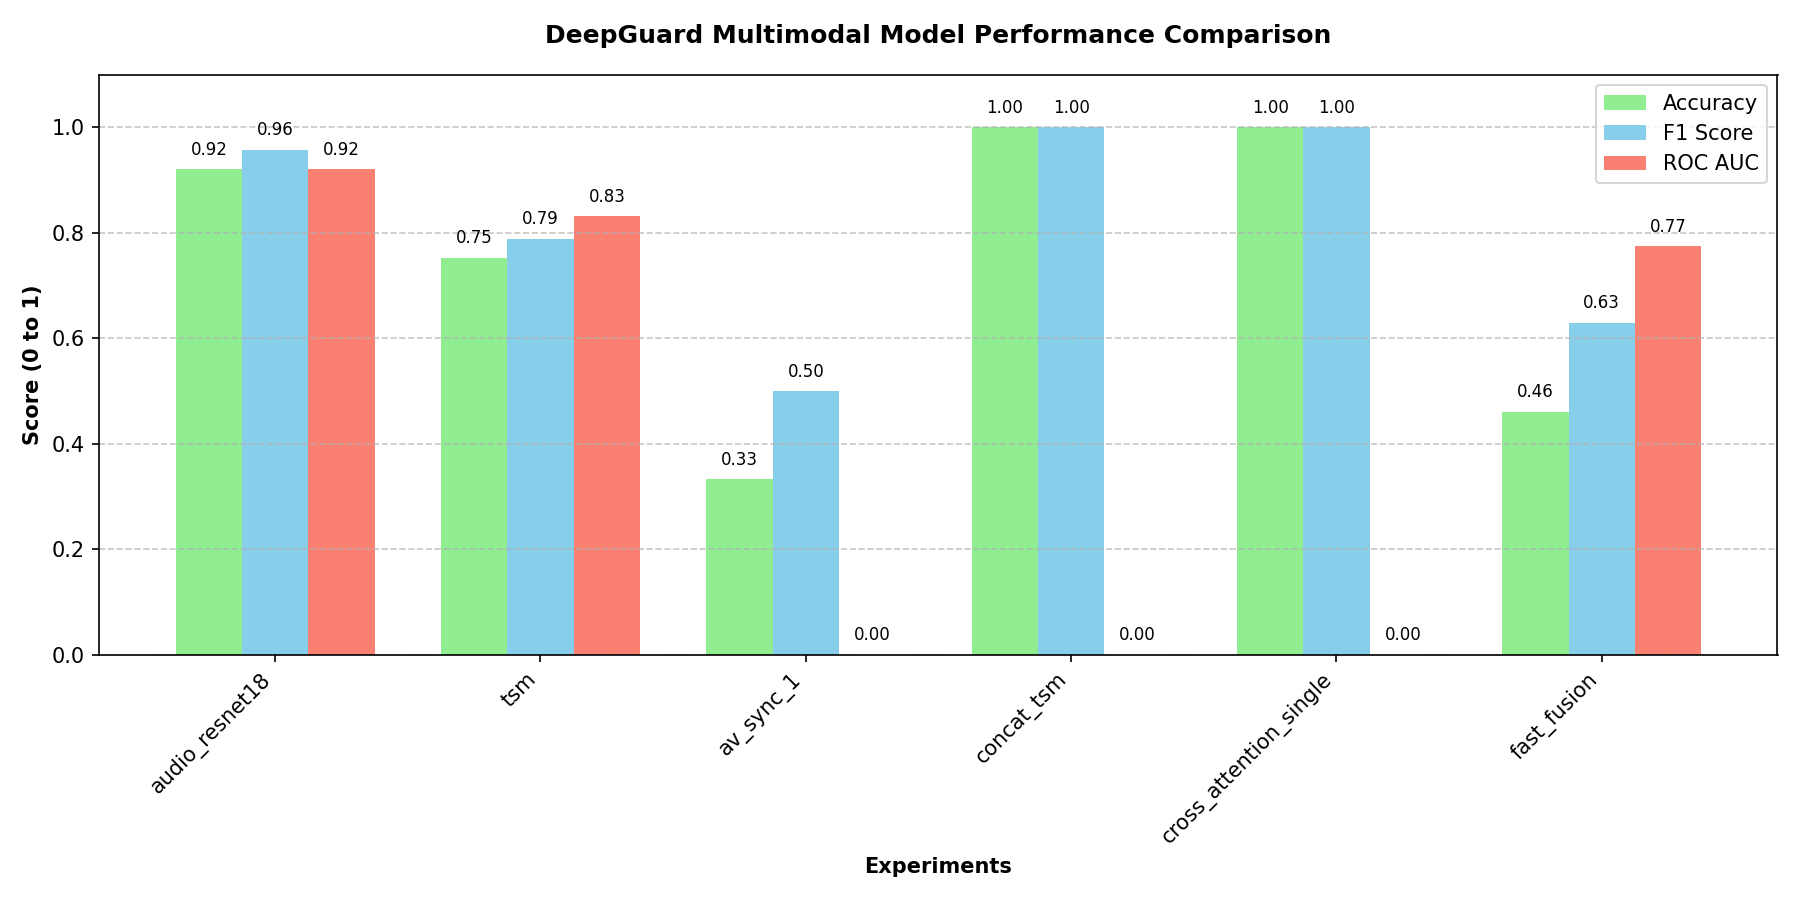
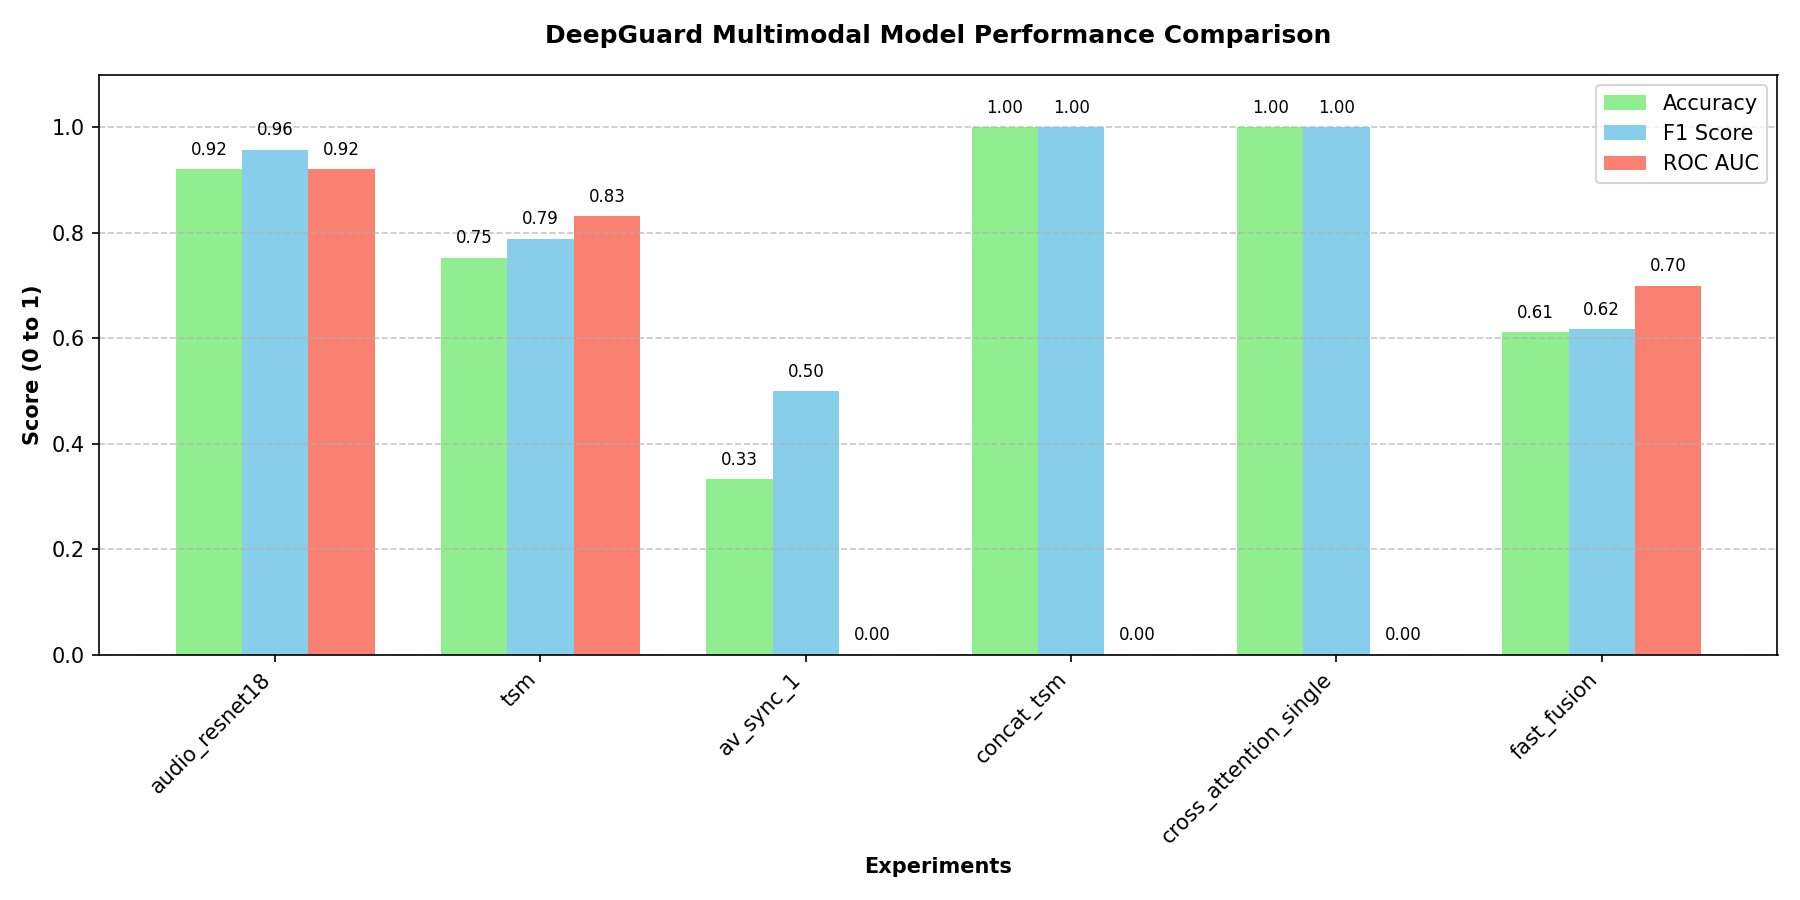
minor fixes

Changed region(s): [[0.8089, 0.2489, 0.9644, 0.4667]]

diff --git a/scripts/prepare_all_fakeavceleb.py b/scripts/prepare_all_fakeavceleb.py
@@ -1,0 +1,136 @@
+import argparse
+import csv
+import hashlib
+import random
+import subprocess
+from pathlib import Path
+
+import cv2
+
+from src.preprocessing.video_sampler import VideoSampler
+from src.preprocessing.face_detector import OpenCVFaceDetector, FaceDetector
+from src.preprocessing.face_cropper import FaceCropper
+
+def parse_args():
+    parser = argparse.ArgumentParser()
+    parser.add_argument("--dataset-root", type=str, default="data/raw/FakeAVCeleb_v1.2/FakeAVCeleb_v1.2")
+    parser.add_argument("--output-dir", type=str, default="data/processed/fakeavceleb_all")
+    parser.add_argument("--target-fps", type=int, default=10)
+    parser.add_argument("--max-videos-per-class", type=int, default=None, help="Set to limit videos per class. Leave None for all.")
+    return parser.parse_args()
+
+def extract_audio(video_path, output_path):
+    subprocess.run([
+        'ffmpeg', '-i', str(video_path), '-vn', '-acodec', 'pcm_s16le', 
+        '-ar', '16000', '-ac', '1', str(output_path), '-y'
+    ], stdout=subprocess.DEVNULL, stderr=subprocess.DEVNULL)
+
+def split_name_for_video(video_id: str) -> str:
+    digest = hashlib.md5(video_id.encode("utf-8")).hexdigest()
+    value = int(digest[:8], 16) / float(0xFFFFFFFF)
+    if value < 0.7:
+        return "train"
+    elif value < 0.85:
+        return "val"
+    else:
+        return "test"
+
+def main():
+    args = parse_args()
+    root = Path(args.dataset_root)
+    output_dir = Path(args.output_dir)
+    
+    real_dir = root / "RealVideo-RealAudio"
+    fake_dirs = [root / "FakeVideo-FakeAudio", root / "FakeVideo-RealAudio"]
+    
+    real_vids = list(real_dir.rglob("*.mp4"))
+    fake_vids = []
+    for fd in fake_dirs:
+        fake_vids.extend(list(fd.rglob("*.mp4")))
+        
+    random.seed(42)
+    random.shuffle(real_vids)
+    random.shuffle(fake_vids)
+    
+    if args.max_videos_per_class:
+        real_vids = real_vids[:args.max_videos_per_class]
+        fake_vids = fake_vids[:args.max_videos_per_class]
+        
+    all_videos = [(v, 0) for v in real_vids] + [(v, 1) for v in fake_vids]
+    
+    print(f"Processing {len(real_vids)} reals and {len(fake_vids)} fakes...")
+    
+    detector = OpenCVFaceDetector(conf_threshold=0.6)
+    cropper = FaceCropper(target_size=(224, 224))
+    
+    output_dir.mkdir(parents=True, exist_ok=True)
+    audio_out_dir = output_dir / "audio"
+    audio_out_dir.mkdir(parents=True, exist_ok=True)
+    
+    manifest_rows = []
+    
+    for vpath, label in all_videos:
+        split = split_name_for_video(vpath.stem)
+        
+        cap = cv2.VideoCapture(str(vpath))
+        if not cap.isOpened():
+            continue
+            
+        fps = cap.get(cv2.CAP_PROP_FPS)
+        total_frames = int(cap.get(cv2.CAP_PROP_FRAME_COUNT))
+        if fps <= 0 or total_frames <= 0:
+            continue
+            
+        frame_stride = max(1, int(fps / args.target_fps))
+        
+        frame_idx = 0
+        saved_frames = []
+        
+        while True:
+            ret, frame = cap.read()
+            if not ret:
+                break
+                
+            if frame_idx % frame_stride == 0:
+                faces = detector.detect(frame)
+                if faces:
+                    best_face = max(faces, key=lambda f: f.confidence)
+                    cropped = cropper.crop(frame, best_face)
+                    
+                    vid_out_dir = output_dir / split / vpath.stem
+                    vid_out_dir.mkdir(parents=True, exist_ok=True)
+                    out_path = vid_out_dir / f"frame_{frame_idx:04d}.jpg"
+                    
+                    cv2.imwrite(str(out_path), cropped)
+                    saved_frames.append(str(out_path.relative_to(output_dir)))
+            frame_idx += 1
+            
+        cap.release()
+        
+        if saved_frames:
+            audio_out_path = audio_out_dir / f"{vpath.stem}.wav"
+            extract_audio(vpath, audio_out_path)
+            
+            # Use relative paths for portability
+            manifest_rows.append({
+                "video_id": vpath.stem,
+                "label": label,
+                "split": split,
+                "frame_paths": "|".join(saved_frames),
+                "audio_path": str(audio_out_path.relative_to(output_dir))
+            })
+            
+    print(f"Successfully processed {len(manifest_rows)} videos")
+    
+    # Write manifests
+    for split in ["train", "val", "test"]:
+        split_rows = [r for r in manifest_rows if r["split"] == split]
+        with open(output_dir / f"{split}.csv", "w", newline="") as f:
+            writer = csv.DictWriter(f, fieldnames=["video_id", "label", "split", "frame_paths", "audio_path"])
+            writer.writeheader()
+            writer.writerows(split_rows)
+            
+    print("All manifests written.")
+
+if __name__ == "__main__":
+    main()

diff --git a/test_app.py b/test_app.py
@@ -1,0 +1,13 @@
+import os
+import sys
+
+# Change to model_submit directory so relative paths work (like checkpoints/)
+os.chdir('model_submit')
+sys.path.append(os.getcwd())
+
+from app import predict
+
+video_path = "../data/raw/FakeAVCeleb_v1.2/FakeAVCeleb_v1.2/FakeVideo-FakeAudio/Asian (South)/men/id00032/00028_0_id00860_wavtolip.mp4"
+result = predict(video_path)
+print("Prediction Result:")
+print(result)

diff --git a/experiments/multimodal_report.md b/experiments/multimodal_report.md
@@ -9,4 +9,4 @@
 | av_sync_1 | AVSync | tsm.pt | audio_resnet18.pt | 0.3333 | 0.3333 | 1.0000 | 0.5000 | 0.0000 / NaN |
 | concat_tsm | Concat | single_frame.pt | audio_resnet18.pt | 1.0000 | 1.0000 | 1.0000 | 1.0000 | 0.0000 / NaN |
 | cross_attention_single | CrossAttention | single_frame.pt | audio_resnet18.pt | 1.0000 | 1.0000 | 1.0000 | 1.0000 | 0.0000 / NaN |
-| fast_fusion | FastFusion | tsm.pt | audio_resnet18.pt | 0.4608 | 0.4591 | 1.0000 | 0.6293 | 0.7745 |
+| fast_fusion | FastFusion | tsm.pt | audio_resnet18.pt | 0.6113 | 0.5618 | 0.6849 | 0.6173 | 0.7000 |
